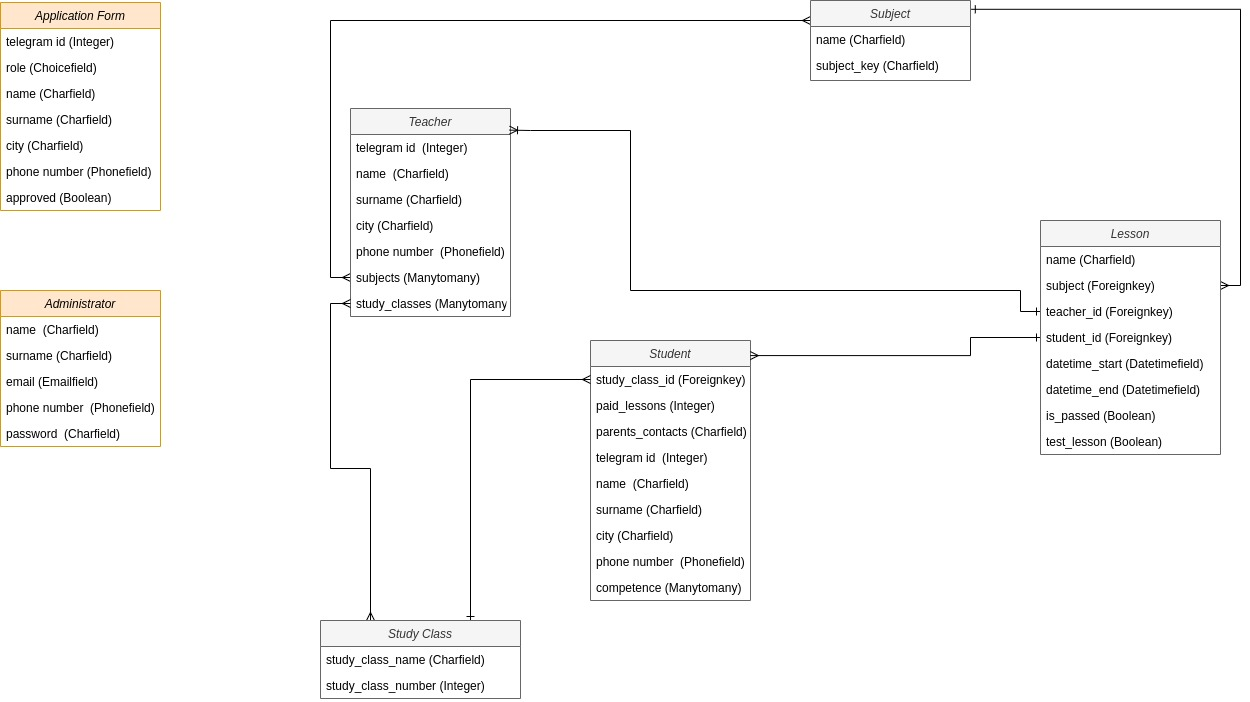
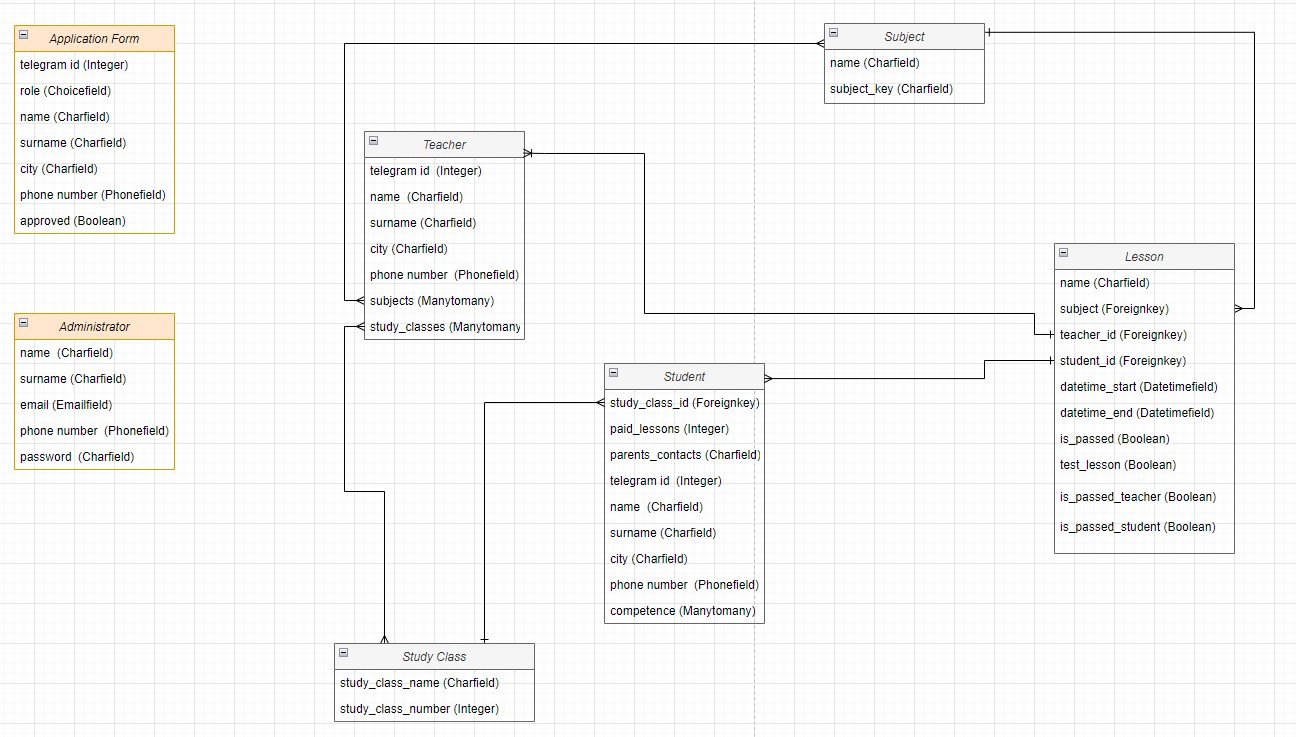
Исправление: Не работает сигнал по успешном прохождении занятия #200 (#216)

diff --git a/src/schooling/signals_bot.py b/src/schooling/signals_bot.py
@@ -55,6 +55,9 @@ async def send_lesson_end_notification(context: CallbackContext):
     teacher_chat_id = context.job.data.get('teacher_chat_id')
     student_chat_id = context.job.data.get('student_chat_id')
     lesson_id = context.job.data.get('lesson_id')
+    lesson = await Lesson.objects.aget(
+        id=int(lesson_id),
+    )
 
     keyboard = [[
         InlineKeyboardButton('Да', callback_data=f'yes {lesson_id}'),
@@ -62,7 +65,7 @@ async def send_lesson_end_notification(context: CallbackContext):
     ]]
     reply_markup = InlineKeyboardMarkup(keyboard)
 
-    message_text = 'Было ли занятие?'
+    message_text = f'Было ли занятие на тему "{lesson.name}"?'
 
     chat_ids = (teacher_chat_id, student_chat_id)
     await gather_send_messages_to_users(
@@ -131,6 +134,9 @@ def init_lesson(sender, instance, **kwargs):
     if instance.id:
         instance.datetime_old = instance.datetime_start
         instance.teacher_old = instance.teacher_id
+        instance.is_passed_teacher_old = instance.is_passed_teacher
+        instance.is_passed_student_old = instance.is_passed_student
+        instance.is_passed_old = instance.is_passed
 
 
 @receiver(post_save, sender=Lesson)
@@ -175,7 +181,7 @@ async def msg_change_lesson(sender, instance, created, **kwargs):
                 instance.teacher_old.telegram_id,
             )
         chat_id = instance.teacher_id.telegram_id
-        msg_teacher = await get_message_text(instance)
+        msg_private = await get_message_text(instance)
         msg_text = (
             f'Ваше занятие на тему "{instance.name}" '
             f'проведёт преподаватель {instance.teacher_id}\n'
@@ -219,6 +225,13 @@ async def msg_change_lesson(sender, instance, created, **kwargs):
                 instance.student_id.telegram_id,
             )
 
+        message_text, chat_id, msg_private = await msg_comfirm_lesson(
+            instance,
+            message_text,
+            msg_private,
+            chat_id,
+        )
+
         if message_text is not None:
             await gather_send_messages_to_users(
                 chat_ids=chat_ids,
@@ -229,8 +242,30 @@ async def msg_change_lesson(sender, instance, created, **kwargs):
         if chat_id:
             bot_token = settings.TELEGRAM_TOKEN
             await send_message_to_user(
-                bot_token, chat_id, msg_teacher, reply_markup,
+                bot_token, chat_id, msg_private, reply_markup,
             )
+
+
+async def msg_comfirm_lesson(instance, message_text, msg_private, chat_id):
+    if instance.is_passed_teacher_old != instance.is_passed_teacher:
+        msg_private = (
+            'Вы, как преподаватель, подтвердили проведение занятия на тему:'
+            f' "{instance.name}". Спасибо!'
+        )
+        chat_id = instance.teacher_id.telegram_id
+
+    if instance.is_passed_student_old != instance.is_passed_student:
+        msg_private = (
+            'Вы, как ученик, подтвердили проведение занятия на тему:'
+            f' "{instance.name}". Спасибо!'
+        )
+        chat_id = instance.student_id.telegram_id
+
+    if instance.is_passed_old != instance.is_passed:
+        message_text = f'Занятие на тему "{instance.name}" проведено.'
+        chat_id = False
+
+    return message_text, chat_id, msg_private
 
 
 @receiver(pre_delete, sender=Lesson)

diff --git a/src/bot/handlers/was_the_lesson.py b/src/bot/handlers/was_the_lesson.py
@@ -7,7 +7,7 @@ from telegram.ext import CallbackContext, CallbackQueryHandler
 from schooling.models import Lesson
 from bot.states import UserStates
 from bot.messages_texts.constants import (
-    UNCOMPLETED_LESSON_FEEDBACK_MSG, COMPLETED_LESSON_MSG,
+    UNCOMPLETED_LESSON_FEEDBACK_MSG,
     SUCCESS_LESSON_MSG,
 )
 
@@ -63,32 +63,30 @@ async def was_the_lesson_completed(update: Update, context: CallbackContext):
         context.user_data['lesson_responses'].get('student_answ')
     )
 
-    if all([teacher_answ, student_answ]):
+    if teacher_answ == 'yes':
+        lesson.is_passed_teacher = True
+        await lesson.asave()
+        await query.edit_message_text(
+            text=SUCCESS_LESSON_MSG,
+        )
 
-        if teacher_answ == 'yes' and student_answ == 'yes':
-            lesson.is_passed = True
-            #TODO Проверить установку флага пройденного занятия, неккоректно
-            await lesson.asave()
-            await query.edit_message_text(
-                text=COMPLETED_LESSON_MSG,
-            )
-            context.user_data['lesson_responses'].clear()
-        else:
-            await no_answ_lesson_response(
-                query=query,
-                update=update,
-            )
-            context.user_data['lesson_responses'].clear()
+    if student_answ == 'yes':
+        lesson.is_passed_student = True
+        await lesson.asave()
+        await query.edit_message_text(
+            text=SUCCESS_LESSON_MSG,
+        )
 
-    elif teacher_answ == 'no' or student_answ == 'no':
+    if lesson.is_passed_teacher and lesson.is_passed_student:
+        lesson.is_passed = True
+        await lesson.asave()
+        context.user_data['lesson_responses'].clear()
+
+    if teacher_answ == 'no' or student_answ == 'no':
         await no_answ_lesson_response(
                 query=query,
                 update=update,
             )
 
-    else:
-        await query.edit_message_text(
-            text=SUCCESS_LESSON_MSG,
-        )
 
 lesson_end_handler = CallbackQueryHandler(was_the_lesson_completed)

diff --git a/src/schooling/migrations/0010_lesson_is_passed_student_lesson_is_passed_teacher.py b/src/schooling/migrations/0010_lesson_is_passed_student_lesson_is_passed_teacher.py
@@ -1,0 +1,23 @@
+# Generated by Django 5.0.4 on 2024-08-13 10:12
+
+from django.db import migrations, models
+
+
+class Migration(migrations.Migration):
+
+    dependencies = [
+        ('schooling', '0009_alter_student_phone_number_and_more'),
+    ]
+
+    operations = [
+        migrations.AddField(
+            model_name='lesson',
+            name='is_passed_student',
+            field=models.BooleanField(default=False, verbose_name='Занятие подтверждено учеником'),
+        ),
+        migrations.AddField(
+            model_name='lesson',
+            name='is_passed_teacher',
+            field=models.BooleanField(default=False, verbose_name='Занятие подтверждено учителем'),
+        ),
+    ]

diff --git a/src/schooling/models.py b/src/schooling/models.py
@@ -202,6 +202,12 @@ class Lesson(models.Model):
         default=45,
     )
     is_passed = models.BooleanField('Занятие прошло', default=False)
+    is_passed_teacher = models.BooleanField(
+        'Занятие подтверждено учителем', default=False,
+    )
+    is_passed_student = models.BooleanField(
+        'Занятие подтверждено учеником', default=False,
+    )
     test_lesson = models.BooleanField('Пробное занятие', default=False)
 
     class Meta:
